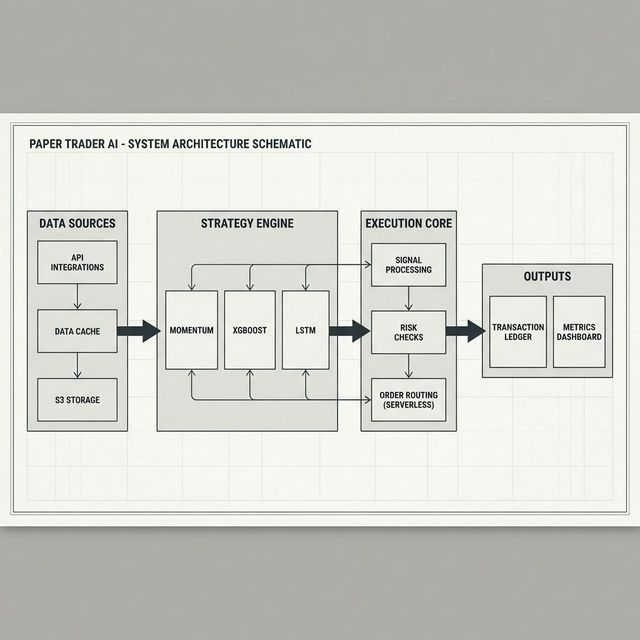
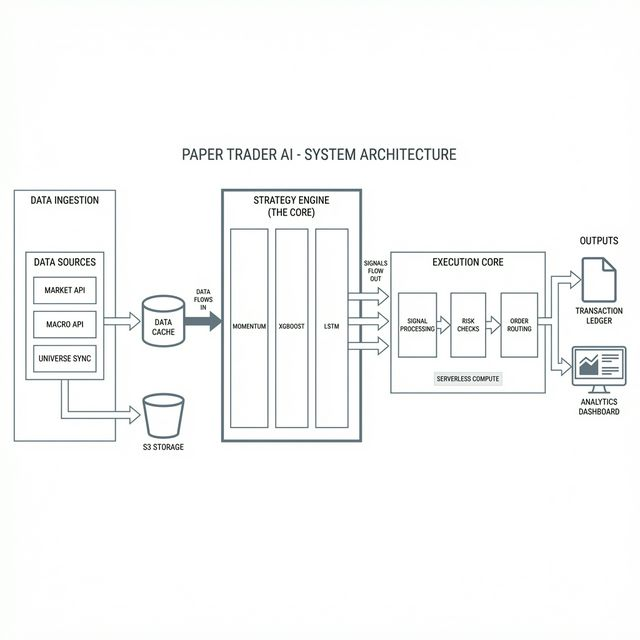
docs: Final polish - classy architecture & correct schedule
- Replaced architecture diagram with minimalist 'blueprint' style (no logos)
- Corrected Lambda schedule to 1:30 PM PT (Market Close)
- Verified consistency between text and diagram

diff --git a/README.md b/README.md
@@ -169,7 +169,7 @@ The trading system can run as a serverless Lambda function on AWS, providing cos
 |-----------|---------|---------------|
 | **Compute** | AWS Lambda | 3008 MB, 300s timeout |
 | **Container** | ECR | `paper-trader-lambda:latest` |
-| **Schedule** | EventBridge | Mon-Fri 4:30 PM PT |
+| **Schedule** | EventBridge | Mon-Fri 1:30 PM PT (Market Close) |
 | **Storage** | S3 | `paper-trader-data-{user}` |
 | **Version Control** | GitHub | Source of truth for ledgers |
 
